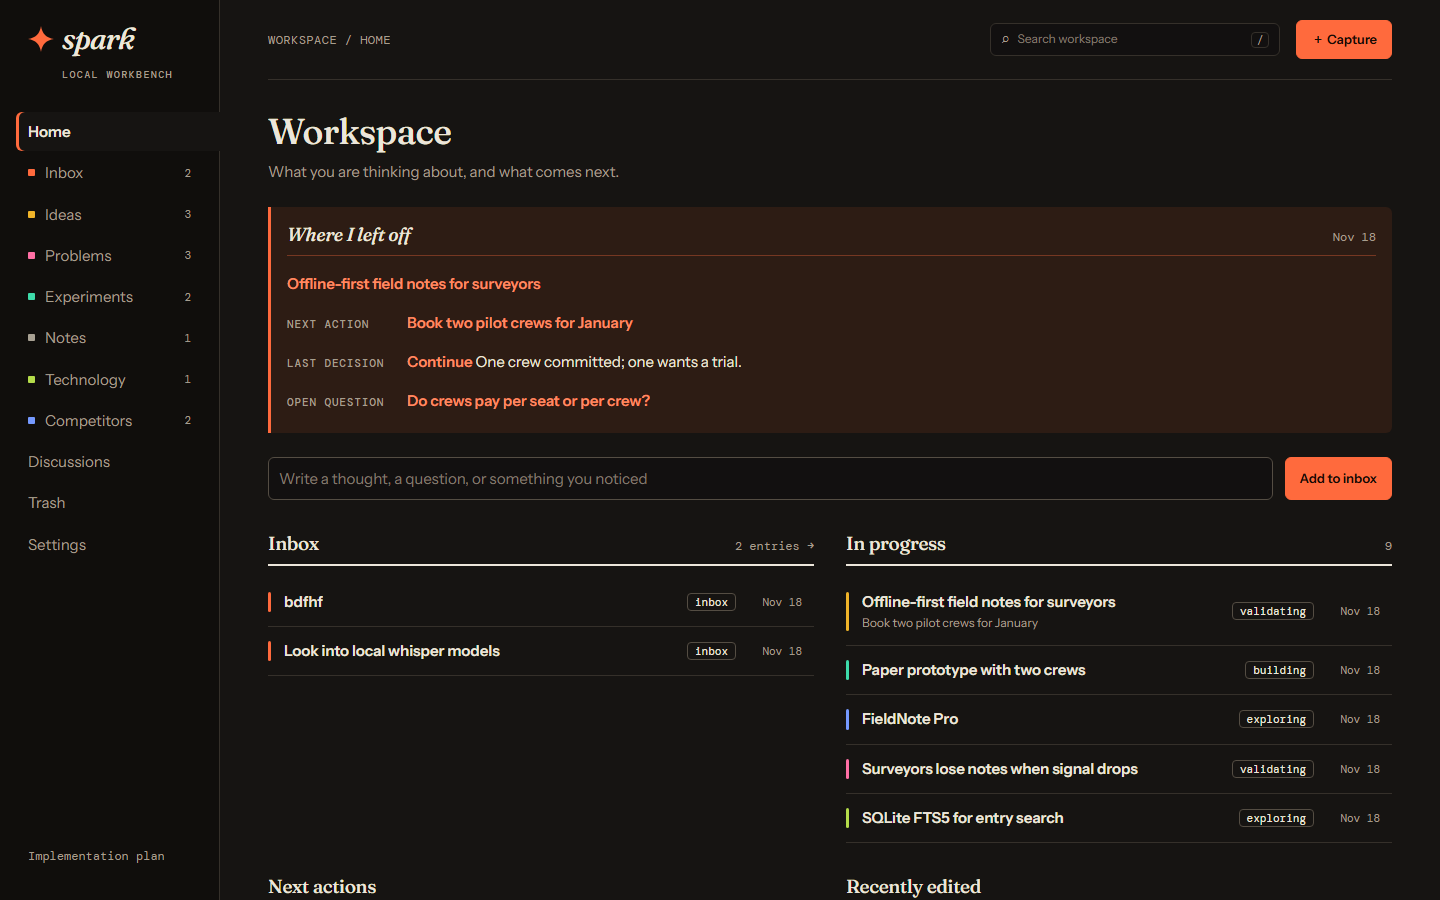
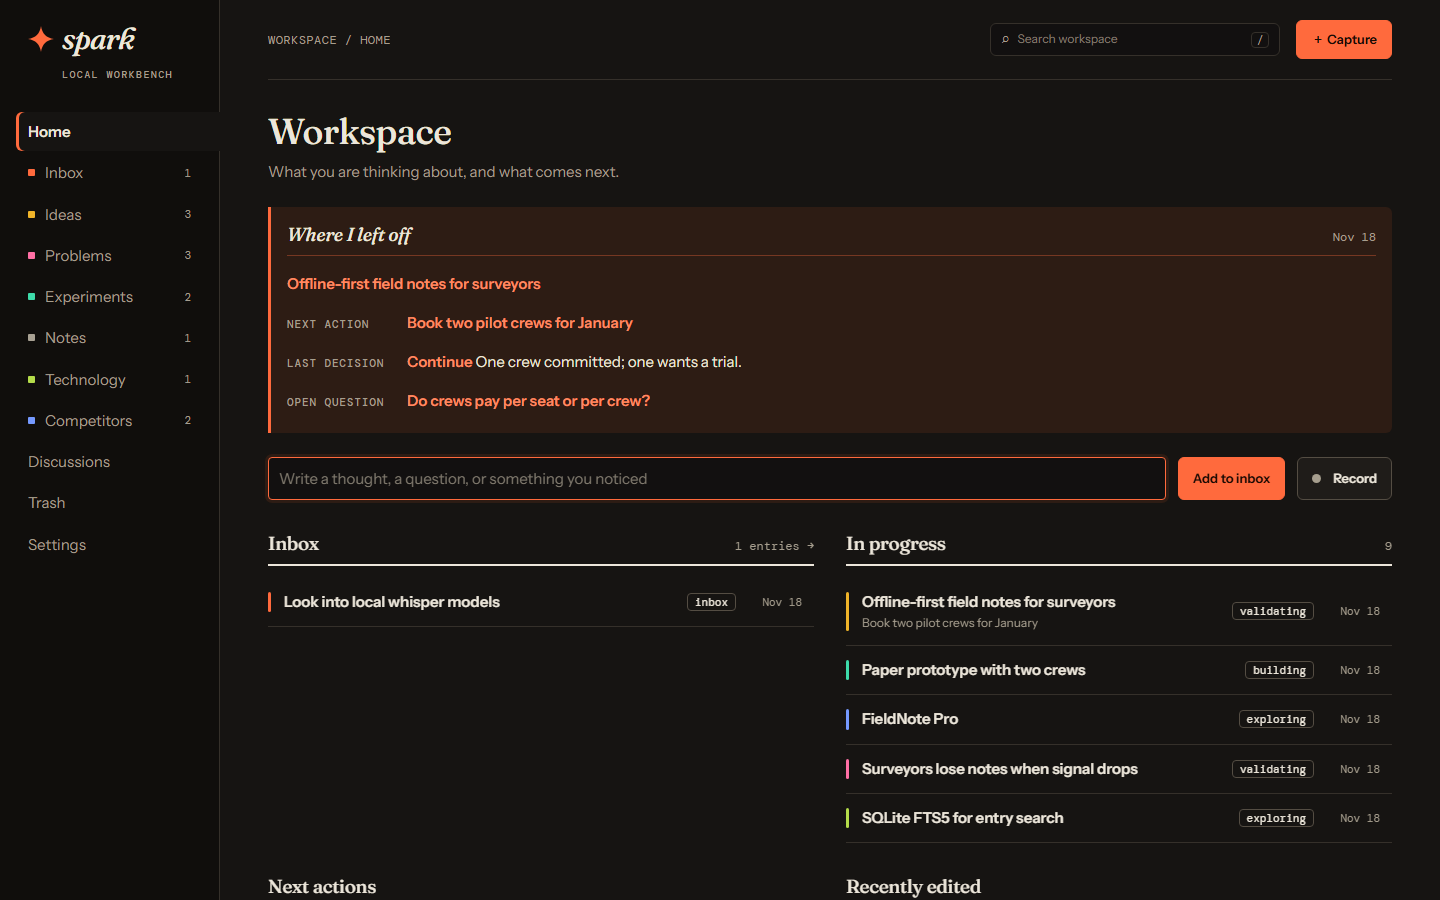
Update README for dictation and local transcription

diff --git a/README.md b/README.md
@@ -21,7 +21,8 @@ Screenshots use sample data. The color scheme follows your operating system.
 - **Multi-model discussions.** Ask one or more models the same question in solo, roundtable, or team mode. See [Discussions](#discussions).
 - **Founder review.** One button starts a parallel review of an idea by five participants: three board lenses (offers, monopoly, product), a CFO, and a launch lead. The idea and its linked entries are the context. The review uses the provider and model of your most recent discussion. Presets are adapted from [founder-skill](https://github.com/Jakeschincariol/founder-skill) by Jake Schincariol (MIT).
 - **Printable brief.** `#brief/<id>` shows a one-page view of an idea. **Print / save PDF** uses the light palette and hides the interface.
-- **Phone and voice capture.** Capture from a paired phone and record or import audio. See [Phone and voice](#phone-and-voice).
+- **One-tap dictation.** The home page has a **Record** button beside the capture box. Press it, speak, press it again. The audio is saved, transcribed, and added to the inbox as a new entry whose transcript you can review. Ctrl+K (Cmd+K on macOS) returns to home and focuses the capture box.
+- **Phone capture.** Capture from a paired phone. See [Phone](#pair-a-phone).
 
 Model output is a draft until you save it. Replies can become a reviewable draft, and nothing is written to your workspace until you give it a title and save.
 
@@ -37,7 +38,9 @@ cd spark-personal-lab
 npm start
 ```
 
-Spark opens at **http://127.0.0.1:4173**. On Windows you can double-click **Start Spark.cmd** instead, which checks your Node version and opens the browser. Keep the terminal open; Ctrl+C stops the server. `node server.cjs` starts the server without opening a browser.
+Spark opens at **http://127.0.0.1:4173**. Open the app, then type a thought in the capture box or press **Record** to dictate. Discussions work out of the box with a local [Ollama](https://ollama.com) server at its default URL, with no key. Other options are in [Providers and privacy](#providers-and-privacy).
+
+On Windows you can double-click **Start Spark.cmd** instead. It checks your Node version, starts the `spark-whisper` Docker container if Docker is installed (see [Local transcription](#local-transcription)), and opens the browser. Keep the terminal open; Ctrl+C stops the server. `node server.cjs` starts the server without opening a browser.
 
 The server binds to loopback only.
 
@@ -57,16 +60,31 @@ node phone.cjs serve
 
 In a second terminal, run `node phone.cjs pair`. Open the HTTPS origin on the phone and enter the one-use code within ten minutes. A paired device has access for 30 days. Use `node phone.cjs devices` to list paired devices and `node phone.cjs revoke DEVICE_ID` to revoke one. Keep both processes running. Spark does not configure DNS, install certificates, or open firewall ports.
 
-### Capture voice
+### Dictation and voice notes
 
-Choose **Capture → Save entry and record** and allow microphone access. The original audio stays on your computer. You can also import an audio file into a saved entry.
+Press **Record** on the home page and allow microphone access. Each recording is limited to about 5 MB and stops automatically at that size. The audio is saved to your computer first, then transcribed. The transcript becomes the body of a new inbox entry, and its first eight words become the title. For longer work, **Capture → Save entry and record** records into an entry you are editing, and you can import an audio file there. Recordings can be replayed or transcribed again from the entry.
 
-Transcription uses one of two paths:
+Transcription settings are global and live in **Settings → Voice transcription**:
 
-- **Local:** run an OpenAI-compatible speech-to-text server on your computer. In **Transcription settings**, enter its loopback base URL and model name.
-- **OpenAI:** configure an API key in Settings and confirm that the audio may be sent to OpenAI.
+- **Local (default):** an OpenAI-compatible speech-to-text server on loopback. The default base URL is `http://127.0.0.1:8000/v1` with model `deepdml/faster-whisper-large-v3-turbo-ct2`.
+- **Groq:** Groq's speech-to-text API, which has a free tier. Requires a Groq API key (`GROQ_API_KEY` or Settings) and your consent before audio is sent.
+- **OpenAI:** requires an OpenAI API key and your consent before audio is sent.
+- **Cloud fallback (optional):** if local transcription fails, Spark can retry with Groq or OpenAI. It only does so when fallback is on and that service has consent and a key.
 
-Review the transcript, correct it, and add it to the entry's notes. Search includes the corrected text. You can replay the audio or retry transcription later.
+Audio is sent to a cloud service only for the target you chose and only after you confirm. Review the transcript before relying on it.
+
+### Local transcription
+
+The default local target is [Speaches](https://github.com/speaches-ai/speaches), an OpenAI-compatible server built on faster-whisper. This is the setup used for the default settings above, with an NVIDIA GPU:
+
+```sh
+docker run -d --name spark-whisper --restart unless-stopped --gpus all -p 127.0.0.1:8000:8000 -v spark-whisper-cache:/home/ubuntu/.cache/huggingface ghcr.io/speaches-ai/speaches:latest-cuda
+curl -X POST http://127.0.0.1:8000/v1/models/deepdml/faster-whisper-large-v3-turbo-ct2
+```
+
+The `curl` call downloads the model into the container's cache. Run it once. Later, `Start Spark.cmd` starts the existing `spark-whisper` container when Docker is available.
+
+Without an NVIDIA GPU, use the CPU image and remove `--gpus all`: `ghcr.io/speaches-ai/speaches:latest-cpu`. Transcription is slower on CPU. If you have no suitable hardware, choose **Groq** in Voice transcription settings instead.
 
 ## Providers and privacy
 
@@ -77,7 +95,9 @@ Review the transcript, correct it, and add it to the entry's notes. Search inclu
 | Google / Gemini    | `streamGenerateContent`, SSE             | `GEMINI_API_KEY` or Settings                           |
 | Local              | OpenAI-compatible chat completions       | Optional `LOCAL_API_KEY`; `LOCAL_BASE_URL` or Settings |
 
-Ollama's usual base URL is `http://127.0.0.1:11434/v1`. LM Studio usually serves `http://127.0.0.1:1234/v1`. Start the local server first. Spark does not install models or start these applications.
+Ollama's usual base URL is `http://127.0.0.1:11434/v1`, and Spark uses it by default. LM Studio usually serves `http://127.0.0.1:1234/v1`. OmniRoute and other OpenAI-compatible routers on this machine work by setting the base URL, for example `http://127.0.0.1:20128/v1`. Start the local server first. Spark does not install models or start these applications.
+
+Research uses [OpenAlex](https://openalex.org) without a key. An optional OpenAlex API key can be set as `OPENALEX_API_KEY` or in Settings.
 
 After saving a provider in Settings, select **Check connection / models**. Model lists can include models that do not support text chat, so choose a compatible one.
 
@@ -91,7 +111,7 @@ Privacy principles:
 
 1. Configure a provider in Settings and run **Check connection / models**.
 2. Open **Discussions → New discussion → Participants & context**.
-3. Give each participant a role, a provider, and an exact model ID. Model IDs can come from discovery or be typed in.
+3. Give each participant a role, a provider, and an exact model ID. Model IDs can come from discovery or be typed in. If a local server is running, new local participants are filled with its first model automatically.
 4. Select the entries to include as context and preview them before sending.
 5. Choose a mode and send a message. Configuration is saved before each send.
 
@@ -122,10 +142,11 @@ Limits: each request allows 4,096 output tokens and each run times out after fiv
 Everything lives in the git-ignored `data/` folder:
 
 ```text
-data/spark.sqlite       Entries, sessions, messages, attachment metadata
-data/attachments/       Content-addressed file bytes
-data/backups/           Latest 20 JSON recovery snapshots
-data/secrets.json       Optional provider keys (never backed up)
+data/spark.sqlite         Entries, sessions, messages, attachment metadata
+data/attachments/         Content-addressed file bytes
+data/backups/             Latest 20 JSON recovery snapshots
+data/voice-settings.json  Transcription target, endpoints, and consent flags
+data/secrets.json         Optional provider keys (never backed up)
 ```
 
 Backups are created after saved changes and around imports. They contain records, conversations, and attachment bytes. An automatic backup on the same disk does not protect against losing the computer, so use **Settings → Export workspace** to copy one elsewhere.
